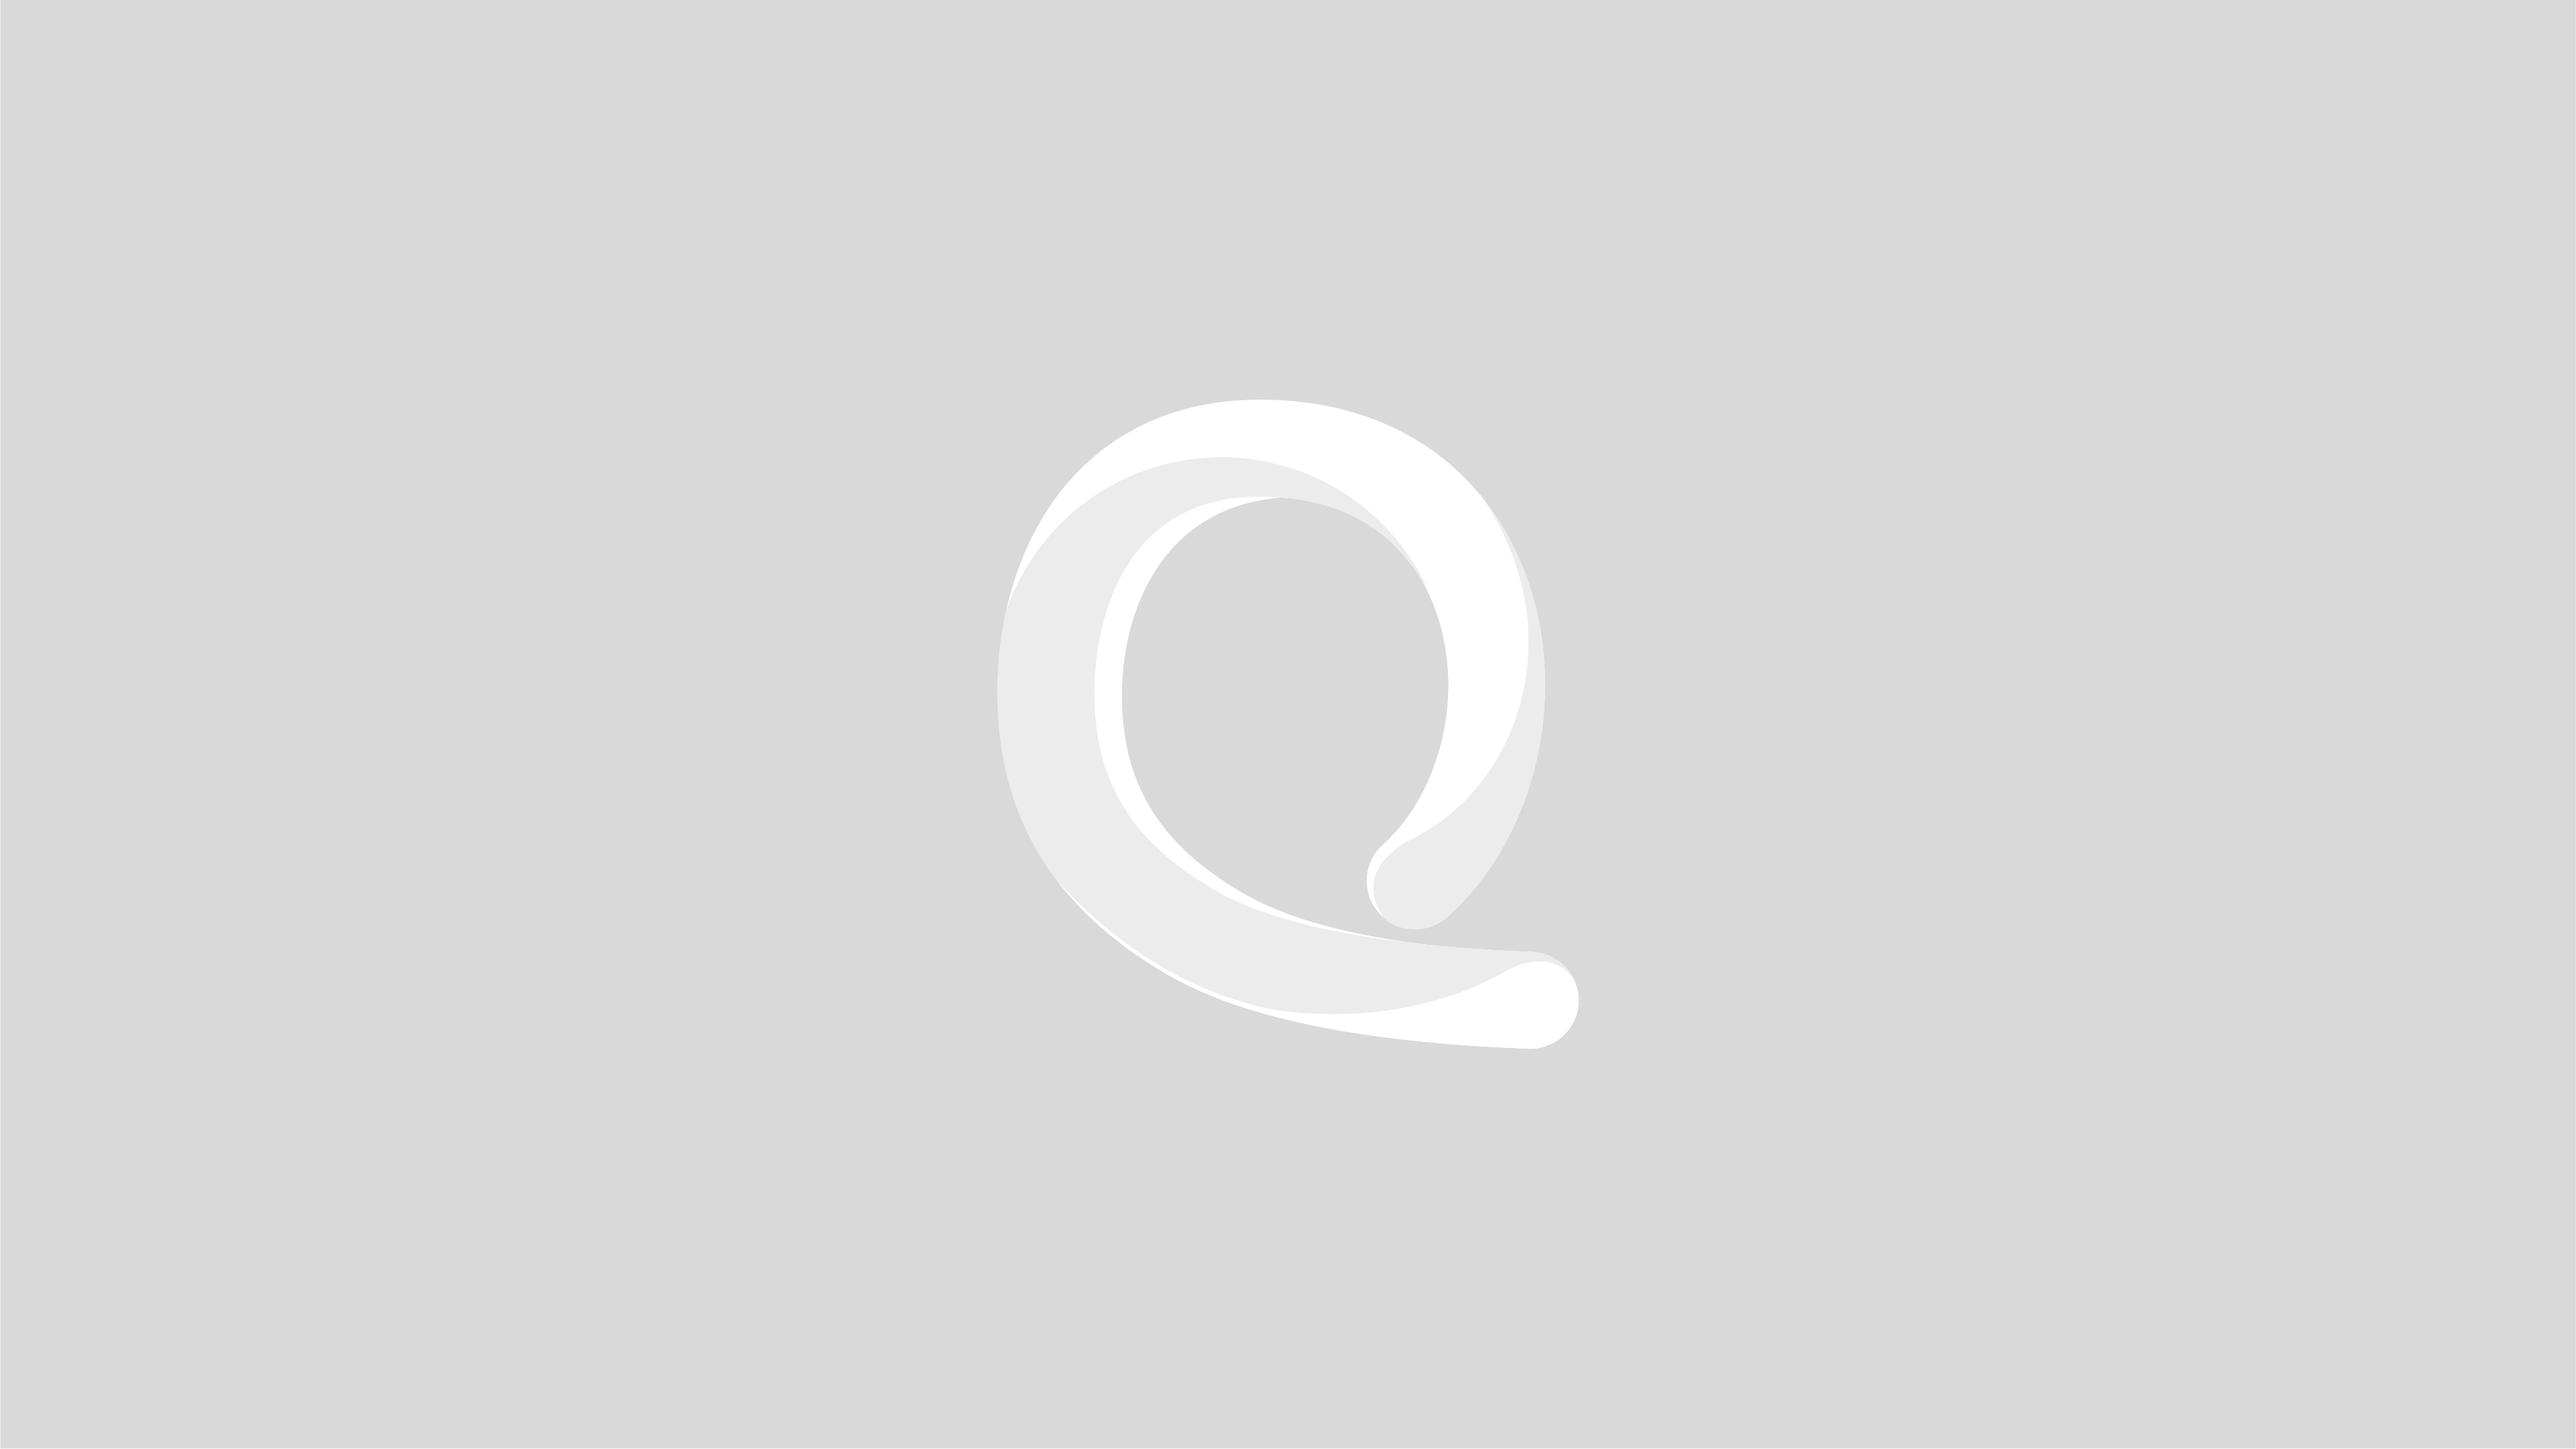
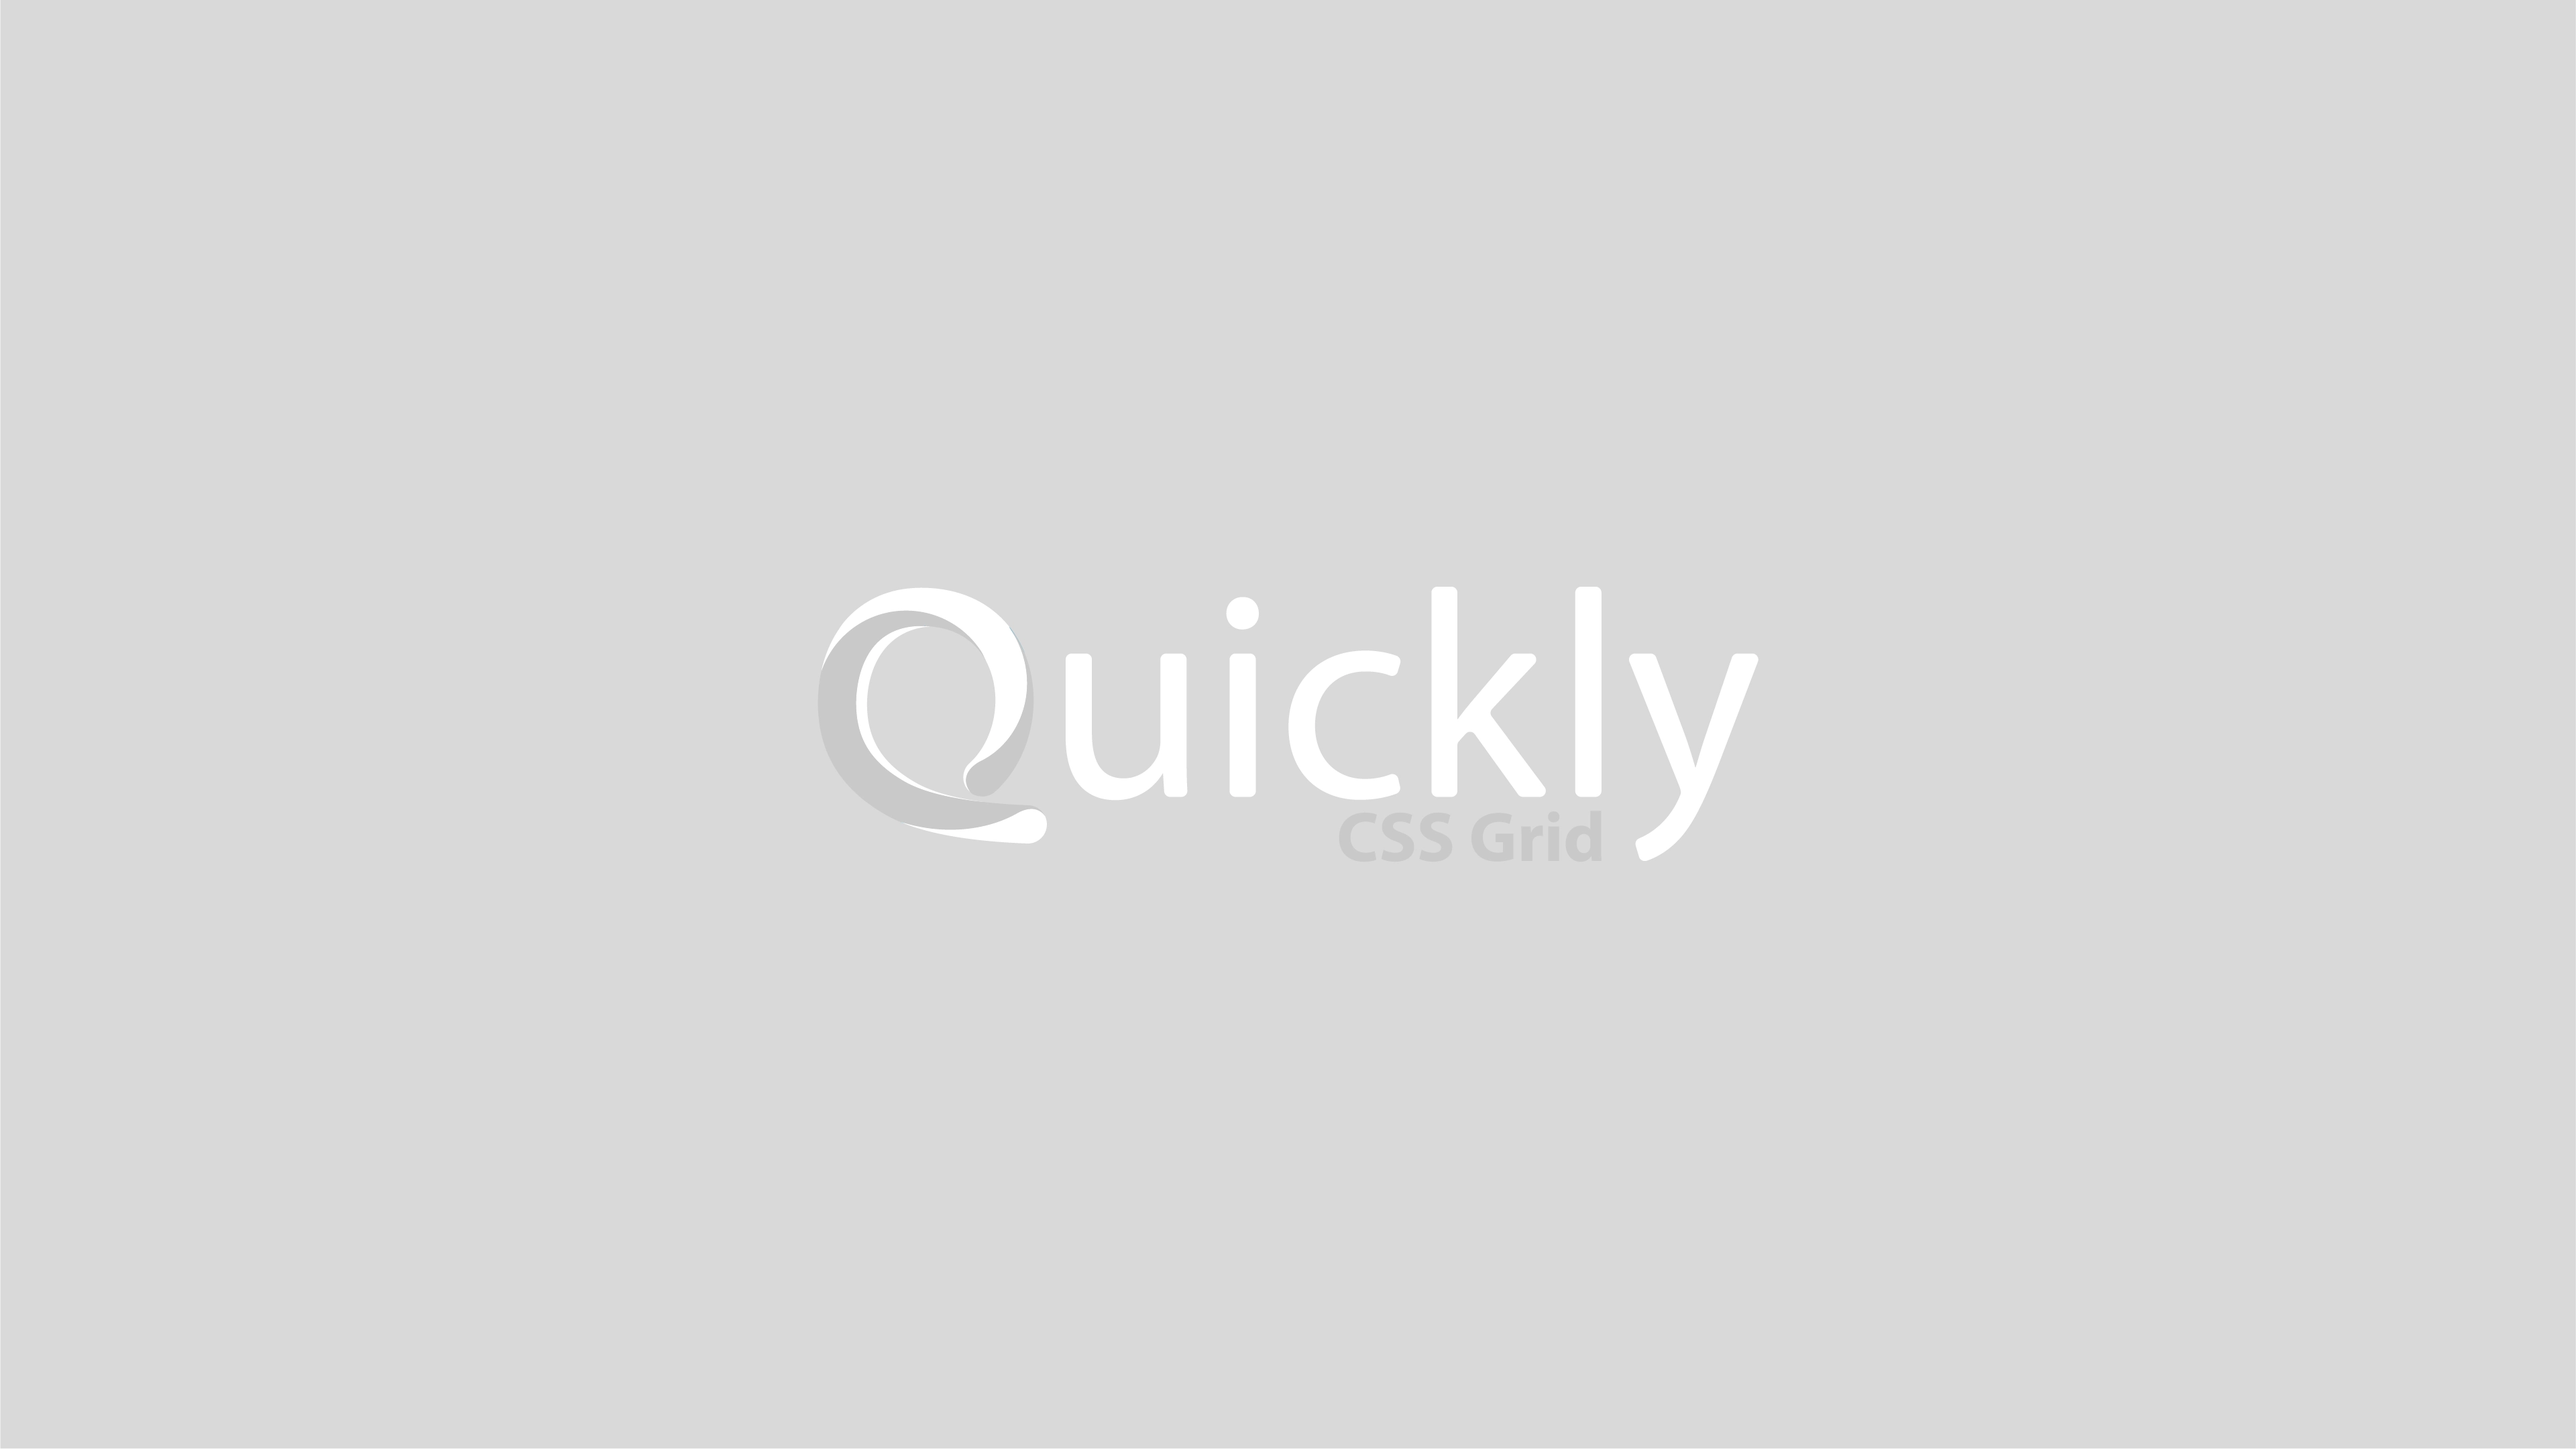
Actualización index

Changed region(s): [[0.3124, 0.279, 0.6873, 0.6511], [0.4686, 0.6511, 0.6248, 0.7441], [0.3749, 0.5581, 0.4061, 0.5891]]

diff --git a/index.html b/index.html
@@ -21,31 +21,30 @@
 </head>
 <body class="body">
     <div class="cont-80 cont-m-90 grid align-cc vh-100">
-        <div class="grid item-1 align-cc g-2 gm-2 mmb-5 animated-div">
-            <div class="col-12 col-s-12 grid">
-                <img src="./img/home-logo.png" class="img-fluid img-logo">
+        <div class="grid align-cc g-2 gm-2 mmb-5 animated-div">
+            <div class="col-12">
+                <img src="./img/Logo-Quickly.png" class="img-fluid" title="Logo Framework Quickly">
             </div>
-            <h1 class="col-12 col-s-12 font-b dis-s-4 text-ac line-h-2 color-lightblue">
-                Sistema de diseño con <br>
-                <span class="color-purple">CSS Grid</span>
+            <h1 class="col-12 font-l text-ac font-s-2 color-purple">
+                Quickly es un marco de trabajo para diseño web
             </h1>
-            <h3 class="col-12 col-s-12 font-l font-s-5 text-ac">
-                Disfruta de una construcción fácil <br>en HTML para sus <br>proyectos web.
-            </h3>
-            <div class="col-12 col-s-12 text-ac">            
-                <a class="col-12 col-s-12 btn btn-primary" href="comenzar.html" target="_self">Documentación</a>
-                <a class="col-12 col-s-12 btn btn-secondary" href="https://github.com/QuicklyCSS/Quickly/tree/main/dist/QuicklyCss-v1.zip" target="_self">Descargar</a>
+            <h2 class="col-12 font-l text-ac font-s-4">
+                Disfruta de una construcción fácil en HTML para sus proyectos web
+            </h2>
+            <div class="col-12 text-ac">            
+                <a class="col-s-12 btn btn-primary" href="comenzar.html" target="_self">Documentación</a>
+                <a class="col-s-12 btn btn-secondary" href="https://github.com/QuicklyCSS/Quickly/tree/main/dist/QuicklyCss-v1.zip" target="_self">Descargar</a>
             </div>
-            <div class="col-12 col-s-12 text-ac">
+            <div class="col-12 text-ac">
                 <p class="font-l font-s-6 text-ac pb-2">
-                    Revisa nuestro template de prueba <br>y descubre lo que <strong class="text-quickly">Quickly</strong> CSS Grid puede hacer.
+                    Revisa nuestro template de prueba y descubre lo que <strong class="text-quickly">Quickly</strong> CSS Grid puede hacer.
                 </p>
                 <a class="btn btn btn-primary-outline" href="https://quicklycss.github.io/Quickly/template/template-landing-1.html" target="_blank">Ver Demo</a>
-            </div>
-            <div class="col-12 col-s-12 text-ac">
+            </div> 
+            <div class="col-12 text-ac">
                 <small>2024 CC Creative Commonds</small>
             </div>
         </div>
-    </div>
+    </div>   
 </body>
 </html>

diff --git a/header.html b/header.html
@@ -1,7 +1,7 @@
 <header class="grid space-hb px-2 fixed align-vc">
     <div class="logo">
         <a href="./" target="_self">
-            <img src="./img/Quickly.png" class="img-fluid">
+            <img src="./img/Logo-Quickly.png" class="img-fluid">
         </a>
     </div>   
  
